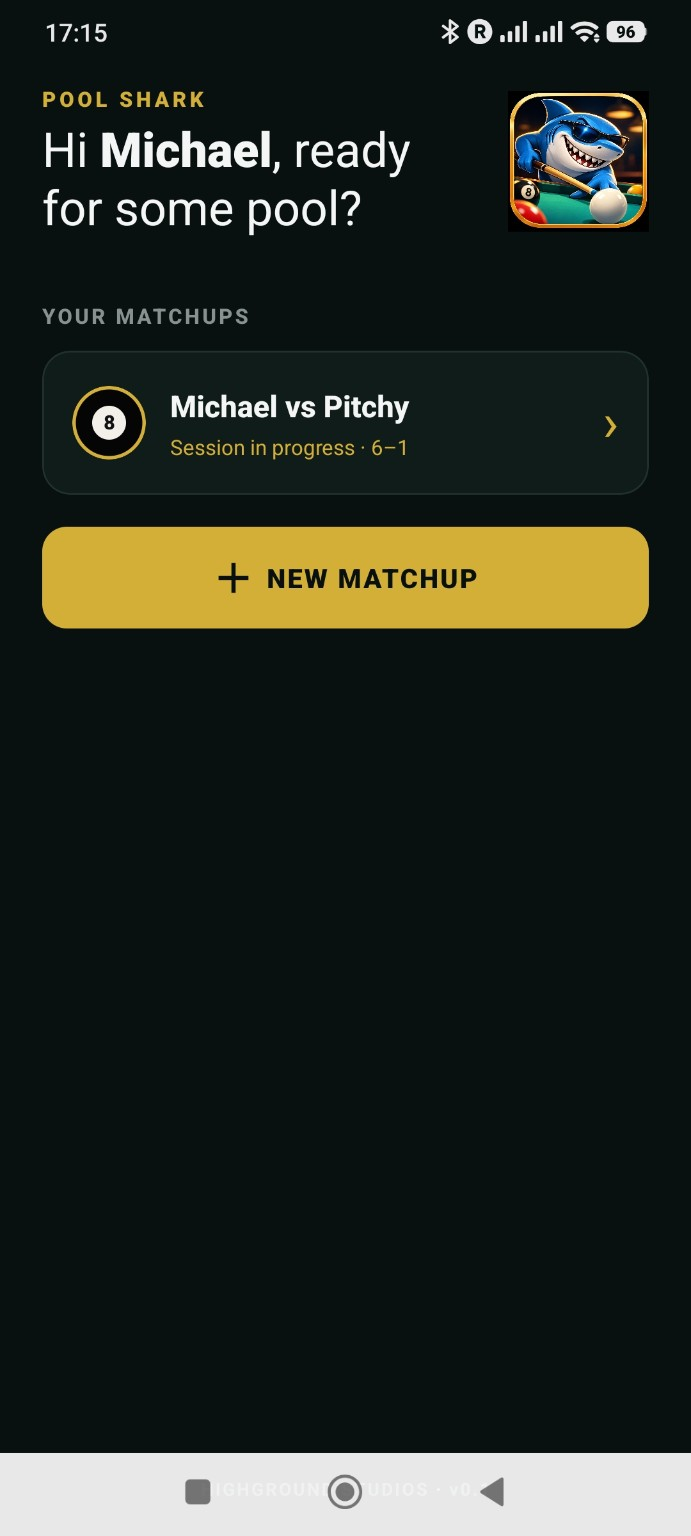
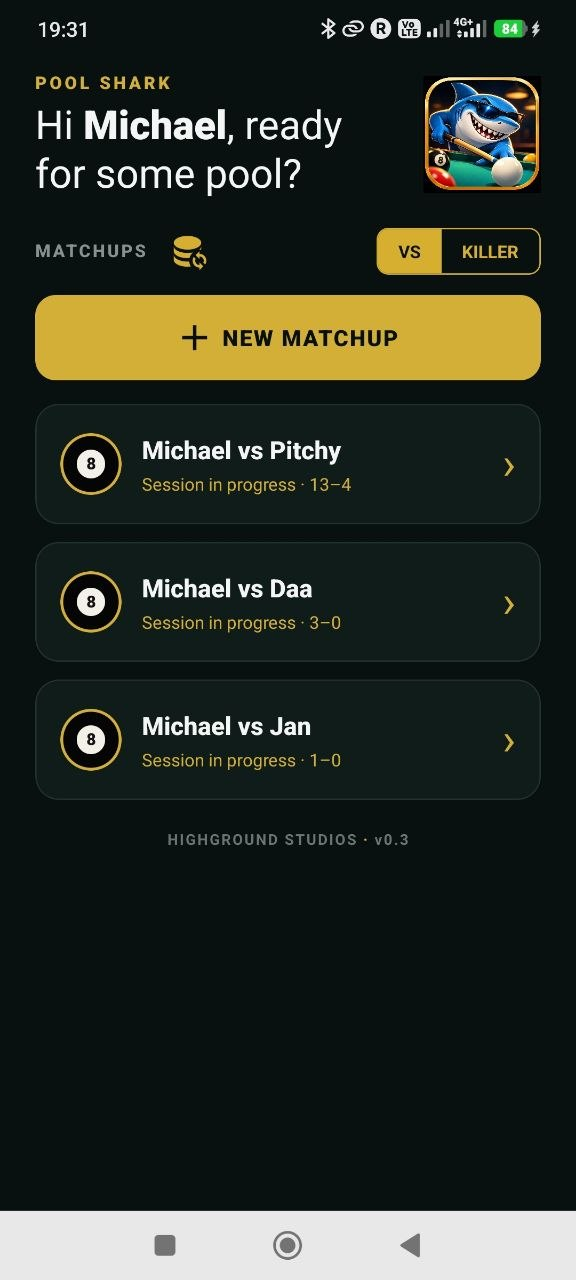
Updated Pool Shark

diff --git a/index.html b/index.html
@@ -751,6 +751,7 @@
 
         </section>
 
+
         <!-- =====================================================
             POOL SHARK
             ===================================================== -->
@@ -778,23 +779,46 @@
                     </p>
 
                     <p>
-                        Create a matchup with another player and keep a running record of your
-                        rivalry across multiple sessions. Pool Shark tracks session wins,
-                        individual frames and your overall head-to-head record, so there's no
-                        arguing about who's really ahead.
+                        Go head-to-head in VS mode, creating matchups and keeping a running record
+                        of your rivalries across multiple sessions. Track session wins, individual
+                        frames and your overall head-to-head records.
+                    </p>
+
+                    <p>
+                        Or switch to Killer mode for a different kind of competition, with multiple
+                        players battling to stay alive as lives are lost and players are eliminated.
+                        Pool Shark keeps track of the action while you concentrate on your shots.
                     </p>
 
                     <p>
                         But there's more to chase than the score. Win five frames in a row during
-                        a session and you nab a Shark, with your Shark tally building over time.
-                        String together five session wins and you'll hit a hot streak, highlighting
-                        who's currently on fire.
+                        a VS session and you win The Shark. Your Shark tally builds over time, 
+                        but don't think this will be easy!
+                        Its a challenge to win even win one shark, so make the most of it if you do!
                     </p>
 
                     <p>
-                        Whether it's an occasional game or an ongoing rivalry, Pool Shark keeps
-                        the history, adds a little extra competition and gives you something else
-                        to chase every time you pick up a cue.
+                        And then theres the hot streak! You thought The Shark was hard to win? 
+                        String together five session wins in a row and you are officially on fire!
+                        Are you hot enough to get the ultimate kudos? And if so, can you maintain it?
+                    </p>
+
+                    <p>
+                        Sharing is caring!
+                        After a session Export the the session history and send it to your opponent,
+                        they can easily Import it so next time you can keep score on either device.
+                        Or just share the history for bragging rights ;)
+                    </p>
+
+                    <p>                        
+                        Your rivalries can travel with you, too. Simply use the Export and Import functions
+                        between devices, keeping your sessions up to date and ready to go.
+                    </p>
+
+                    <p>
+                        Whether it's an occasional game, an ongoing rivalry or a group of friends
+                        playing Killer, Pool Shark keeps the competition going every time you
+                        pick up a cue.
                     </p>
 
                     <p class="concept-note">
@@ -804,7 +828,7 @@
                     <div class="app-downloads">
 
                         <a
-                            href="https://github.com/Odins-Beard/highground-studios/releases/download/poolshark-v0.1/PoolShark-v0.1.apk"
+                            href="https://github.com/Odins-Beard/highground-studios/releases/download/poolshark-v0.4/PoolShark-v0.4.apk"
                             class="download-button"
                         >
                             DOWNLOAD FOR ANDROID
@@ -818,24 +842,31 @@
 
                 </div>
 
+
                 <div class="poolshark-visual">
 
                     <img
                         src="assets/images/poolshark1.jpg"
-                        alt="Pool Shark matchup dashboard"
+                        alt="Pool Shark VS matchup dashboard"
                         class="poolshark-screen poolshark-screen-left"
                     >
 
                     <img
                         src="assets/images/poolshark3.jpg"
-                        alt="Pool Shark sessions screen"
+                        alt="Pool Shark session overview"
                         class="poolshark-screen poolshark-screen-right"
                     >
 
                     <img
-                        src="assets/images/poolshark2.jpg"
-                        alt="Pool Shark Game On screen"
+                        src="assets/images/poolshark4.jpg"
+                        alt="Pool Shark Killer gameplay"
                         class="poolshark-screen poolshark-screen-front"
+                    >
+
+                    <img
+                        src="assets/images/poolshark2.jpg"
+                        alt="Pool Shark VS gameplay"
+                        class="poolshark-screen poolshark-screen-sessions"
                     >
 
                     <p class="screenshot-hint">
@@ -843,6 +874,7 @@
                     </p>
 
                 </div>
+
 
             </div>
 

diff --git a/styles.css b/styles.css
@@ -258,6 +258,76 @@ h4 { font-size:1.15rem; }
     z-index: 10;
 }
 
+
+/* =========================================================
+   POOL SHARK - FOUR SCREENSHOT LAYOUT
+   ========================================================= */
+
+.poolshark-screen-left {
+    left: -35px;
+    top: 55px;
+    transform: rotate(-7deg);
+    opacity: .92;
+    z-index: 1;
+}
+
+.poolshark-screen-sessions {
+    left: 80px;
+    top: 35px;
+    transform: rotate(-4deg);
+    opacity: .94;
+    z-index: 2;
+}
+
+.poolshark-screen-right {
+    left: 195px;
+    right: auto;
+    top: 18px;
+    transform: rotate(-1deg);
+    opacity: .97;
+    z-index: 3;
+}
+
+.poolshark-screen-front {
+    left: auto;
+    right: -35px;
+    top: 0;
+    transform: rotate(4deg);
+    opacity: 1;
+    z-index: 4;
+}
+
+/* Hover effects */
+
+.poolshark-screen-left:hover {
+    transform: rotate(-3deg) scale(1.08);
+    opacity: 1;
+    z-index: 10;
+}
+
+.poolshark-screen-sessions:hover {
+    transform: rotate(-1deg) scale(1.08);
+    opacity: 1;
+    z-index: 10;
+}
+
+.poolshark-screen-right:hover {
+    transform: rotate(0deg) scale(1.08);
+    opacity: 1;
+    z-index: 10;
+}
+
+.poolshark-screen-front:hover {
+    transform: rotate(1deg) scale(1.08);
+    opacity: 1;
+    z-index: 10;
+}
+
+.poolshark-visual .screenshot-hint {
+    bottom: -125px;
+}
+
+
 .screenshot-hint { position:absolute; bottom:-100px; width:100%; margin:0; text-align:center; color:#888; font-size:.8rem; letter-spacing:.5px; }
 
 .gympro-screen-1 { left:-35px; top:55px; transform:rotate(-7deg); opacity:.92; z-index:1; }
